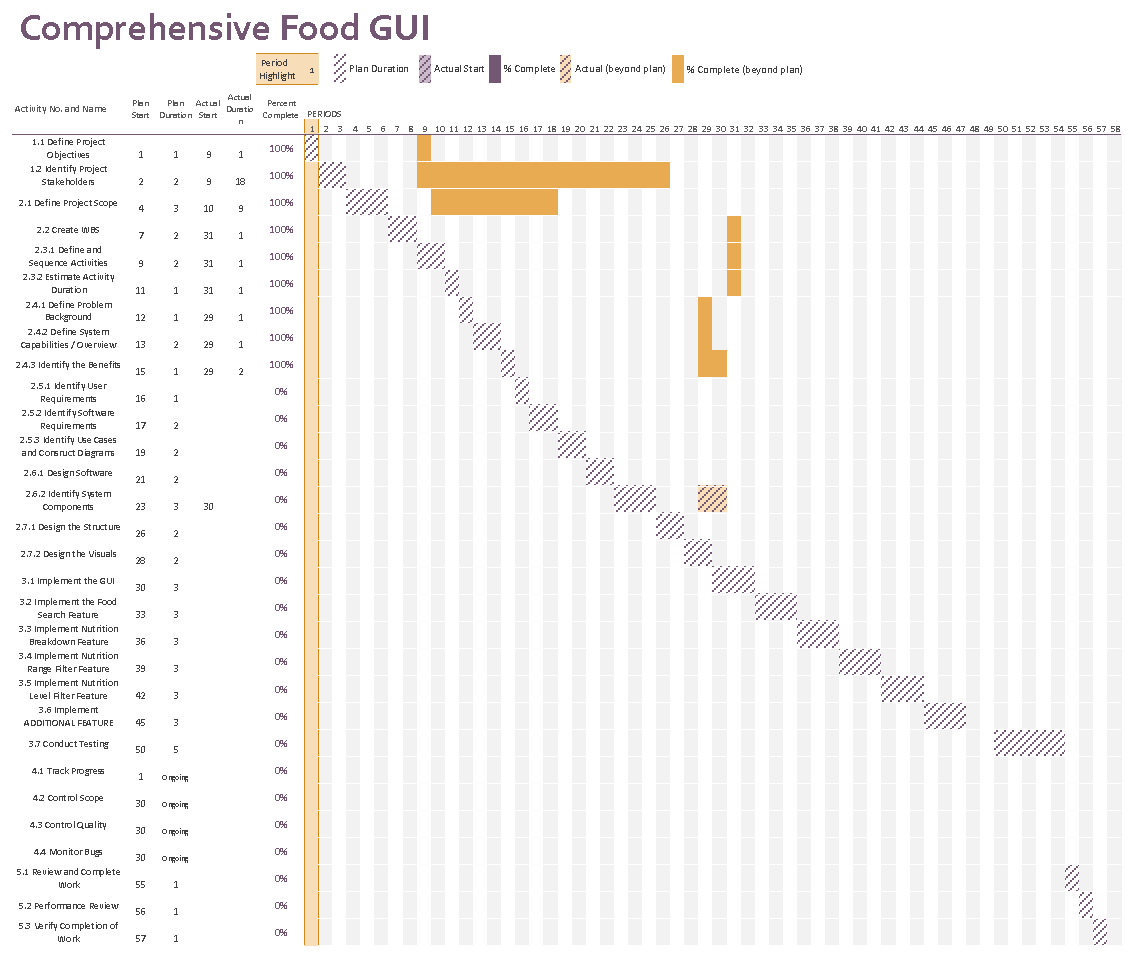
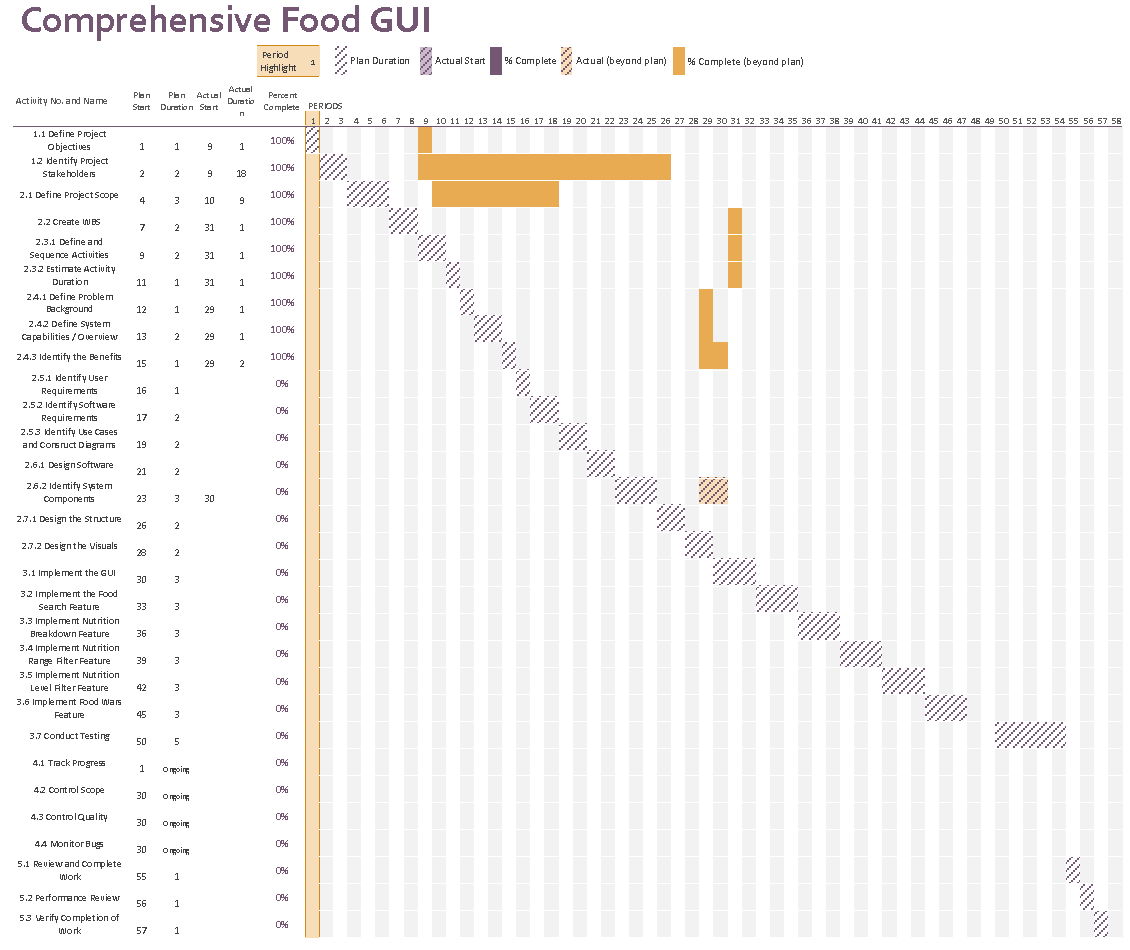
filter feature fix and new feature

diff --git a/Software Design Document.md b/Software Design Document.md
@@ -18,52 +18,52 @@
 
 <!-- TOC -->
 
-- [Software Design Document](#software-design-document)
-  - [Project Name: Comprehensive Food GUI](#project-name-comprehensive-food-gui)
-  - [Group Number: 023](#group-number-023)
-  - [Team members](#team-members)
-- [Table of Contents](#table-of-contents)
-  - [1. System Vision](#1-system-vision)
-    - [1.1 Problem Background](#11-problem-background)
-        - [Data Input](#data-input)
-        - [Data Output](#data-output)
-        - [Target Users](#target-users)
-          - [Nutritionists and Dietitians](#nutritionists-and-dietitians)
-          - [Educational Institutions](#educational-institutions)
-          - [Health Conscious Individuals](#health-conscious-individuals)
-          - [Researchers](#researchers)
-          - [Food Manufacturers](#food-manufacturers)
-    - [1.2 System capabilities/overview](#12-system-capabilitiesoverview)
-      - [System Functionality](#system-functionality)
-      - [Features and Functionalities:](#features-and-functionalities)
-        - [GUI](#gui)
-        - [Food Search](#food-search)
-        - [Nutrition Breakdown](#nutrition-breakdown)
-        - [Nutrition Range Filter](#nutrition-range-filter)
-        - [Nutrition Level Filter](#nutrition-level-filter)
-        - [Food Wars](#food-wars)
-    - [1.3 Benefit Analysis](#13-benefit-analysis)
-        - [1. Informed Dietary Choices](#1-informed-dietary-choices)
-        - [2. Efficient Nutritional Research](#2-efficient-nutritional-research)
-        - [3. Enhances Dietitians and Nutritionists](#3-enhances-dietitians-and-nutritionists)
-        - [4. Educational Resource](#4-educational-resource)
-        - [5. Marketing](#5-marketing)
-        - [6. Time and Effort Savings](#6-time-and-effort-savings)
-        - [7. ADDITIONAL FEATURE BENEFIT](#7-additional-feature-benefit)
-  - [2. Requirements](#2-requirements)
-    - [2.1 User Requirements](#21-user-requirements)
-    - [2.2 Software Requirements](#22-software-requirements)
-    - [2.3 Use Case Diagram](#23-use-case-diagram)
-    - [2.4 Use Cases](#24-use-cases)
-  - [3. Software Design and System Components](#3-software-design-and-system-components)
-    - [3.1 Software Design](#31-software-design)
-    - [3.2 System Components](#32-system-components)
-      - [3.2.1 Functions](#321-functions)
-      - [3.2.2 Data Structures / Data Sources](#322-data-structures--data-sources)
-      - [3.2.3 Detailed Design](#323-detailed-design)
-  - [4. User Interface Design](#4-user-interface-design)
-    - [4.1 Structural Design](#41-structural-design)
-    - [4.2 Visual Design](#42-visual-design)
+-  [Software Design Document](#software-design-document)
+   -  [Project Name: Comprehensive Food GUI](#project-name-comprehensive-food-gui)
+   -  [Group Number: 023](#group-number-023)
+   -  [Team members](#team-members)
+-  [Table of Contents](#table-of-contents)
+   -  [1. System Vision](#1-system-vision)
+      -  [1.1 Problem Background](#11-problem-background)
+         -  [Data Input](#data-input)
+         -  [Data Output](#data-output)
+         -  [Target Users](#target-users)
+            -  [Nutritionists and Dietitians](#nutritionists-and-dietitians)
+            -  [Educational Institutions](#educational-institutions)
+            -  [Health Conscious Individuals](#health-conscious-individuals)
+            -  [Researchers](#researchers)
+            -  [Food Manufacturers](#food-manufacturers)
+      -  [1.2 System capabilities/overview](#12-system-capabilitiesoverview)
+         -  [System Functionality](#system-functionality)
+         -  [Features and Functionalities:](#features-and-functionalities)
+            -  [GUI](#gui)
+            -  [Food Search](#food-search)
+            -  [Nutrition Breakdown](#nutrition-breakdown)
+            -  [Nutrition Range Filter](#nutrition-range-filter)
+            -  [Nutrition Level Filter](#nutrition-level-filter)
+            -  [Food Wars](#food-wars)
+      -  [1.3 Benefit Analysis](#13-benefit-analysis)
+         -  [1. Informed Dietary Choices](#1-informed-dietary-choices)
+         -  [2. Efficient Nutritional Research](#2-efficient-nutritional-research)
+         -  [3. Enhances Dietitians and Nutritionists](#3-enhances-dietitians-and-nutritionists)
+         -  [4. Educational Resource](#4-educational-resource)
+         -  [5. Marketing](#5-marketing)
+         -  [6. Time and Effort Savings](#6-time-and-effort-savings)
+         -  [7. ADDITIONAL FEATURE BENEFIT](#7-additional-feature-benefit)
+   -  [2. Requirements](#2-requirements)
+      -  [2.1 User Requirements](#21-user-requirements)
+      -  [2.2 Software Requirements](#22-software-requirements)
+      -  [2.3 Use Case Diagram](#23-use-case-diagram)
+      -  [2.4 Use Cases](#24-use-cases)
+   -  [3. Software Design and System Components](#3-software-design-and-system-components)
+      -  [3.1 Software Design](#31-software-design)
+      -  [3.2 System Components](#32-system-components)
+         -  [3.2.1 Functions](#321-functions)
+         -  [3.2.2 Data Structures / Data Sources](#322-data-structures--data-sources)
+         -  [3.2.3 Detailed Design](#323-detailed-design)
+   -  [4. User Interface Design](#4-user-interface-design)
+      -  [4.1 Structural Design](#41-structural-design)
+      -  [4.2 Visual Design](#42-visual-design)
 
 <div style="page-break-after: always;"></div>
 
@@ -87,7 +87,7 @@
 -  Users will be entering the names of foods to search the dataset.
 -  Users will be selecting specific foods to see visualisation tools on its nutritional content.
 -  Users will be inputting minimum and maximum values for a nutrition to display foods that fall within that range.
--  Users will be inputting low, mid, and high levels for various nutrients to display a list of filtered food items that fall within those ranges.
+-  Users will be inputting a low, mid, or high level for a specific nutrient to display a list of filtered food items that fall within that range.
 -  **ADDITIONAL ITEM CONTAINS INPUT**
 -  The users will be accessing the Nutritional_Food_Database.csv via their inputs above.
 
@@ -95,7 +95,7 @@
 
 -  Visualisation tools such as pie charts and bar graphs when a food item is searched or clicked from a display.
 -  A list of foods after the user inputs minimum and maximum values from the range menu
--  A list of foods after the user inputs low, mid, and high values from the filter menu.
+-  A list of foods after the user inputs a low, mid, or high value from the filter menu.
 -  **ADDITIONAL ITEM CONTAINS OUTPUT**
 
 ##### Target Users
@@ -161,20 +161,20 @@
 
 ##### Nutrition Level Filter
 
--  Allows users to filter foods by their nutritional content levels: low, mid, and high. The filter includes: fat, protein, carbohydrates, sugar, and nutritional density.
+-  Allows users to filter foods by the size of a nutrient content level: low, mid, and high. The filter includes: fat, protein, carbohydrates, sugar, and nutritional density.
    -  Functionality:
       -  Low: Less than 33% of the highest value
       -  Mid: Between 33% and 66% of the highest value
       -  High: Greater than 66% of the highest value
-      -  A filter menu for choosing the level of each nutrient
-      -  Fields below each nutrient
+      -  A filter menu for choosing the nutrient
+      -  A field for choosing low, mid, or high
       -  A display afterwards that will contain the list of foods
 
 ##### Food Wars
-- **Description** 
-  - Functionality:
-    - **Functions**
 
+-  **Description**
+   -  Functionality:
+      -  **Functions**
 
 ### 1.3 Benefit Analysis
 
@@ -191,7 +191,7 @@
 ##### 3. Enhances Dietitians and Nutritionists
 
 -  Benefit: Dietitians are able to give more individualised, precise, and accurate recommendations.
--  Example: If a client is required to cut back on fats, but needs to maintain high levels of nutritional density and protein, they can utilise the nutrition level filter. By navigating to the filter menu and choosing low for fat, high for protein, and high for nutritional density, while leaving the rest blank. The dietitian can use the displayed list to provide customised food recommendations.
+-  Example: If a client is required to cut back on fats, the dietician can utilise the nutrition level filter. By navigating to the filter menu and choosing low for fat. They can use the displayed list to provide customised food recommendations. Or if they want more precise recommendations they can use the range feature for specific amounts.
 
 ##### 4. Educational Resource
 
@@ -269,8 +269,8 @@ List all key functions within the software. For each function, provide:
     - <h6 style="display: inline;"> Nutrition Breakdown Function: </h6> breakdown the nutritional information for that specific food in the form of pie and bar graphs
     - <h6 style="display: inline;"> Nutrition Range Filter Function:  </h6> allow the user to select one nutrition and input minimum & maximum values, and the tools will display a list of foods that fall into those ranges 
     - <h6 style="display: inline;"> Nutrition Level Filter Function: </h6> allow the user to select ranges of low, medium and high for nutritional information such as fats, protein carbohydrates, sugar and nutritional density to compare the foods that fall within the ranges visually 
-    - <h6 style="display: inline;"> Food Wars Function: </h6> allow the user to select 5 chosen foods and compare them aginst each other visually with pie charts or bar graphs based on a one selected nutritonal information 
-  
+    - <h6 style="display: inline;"> Food Wars Function: </h6> allow the user to select 5 chosen foods and compare them aginst each other visually with pie charts or bar graphs based on a one selected nutritonal information
+
 -  <h5 style="display: inline;"> Input Parameters: </h5>
     
     - <h6 style="display: inline;"> Food Search Function: </h6> The input type would be string and be used to input the foods the user is wanting to look up such as "pear"
@@ -280,21 +280,21 @@ List all key functions within the software. For each function, provide:
     - <h6 style="display: inline;"> Food Wars Function: </h6> The input would be a combination of a set 5 strings that allow the user to select 5 foods such as "cheese sticks" "pear" "apple" "hummus" "fried rice" then another string for the nutrional information such as "sugar" and finally a boolean which would allow the user to select either pie or bar graph such as "Graph: 'pie' "
 
 -  <h5 style="display: inline;"> Return Value: </h5> Describe what the function returns.
-   
-    - <h6 style="display: inline;"> Food Search Function: </h6> Would display all the information returned for the selected food such as in a dictionary for the user to view. 
-    - <h6 style="display: inline;"> Nutrition Breakdown Function: </h6> Would display all the information for the selected food's nurtitional information as a bar or pie graph.
-    - <h6 style="display: inline;"> Nutrition Range Filter Function: </h6> Would display all the foods between the selected minimum and maximum of the selected nutrition as a dictionary going from the food closest to the maximum with its value to the food closest to the minimum.
-    - <h6 style="display: inline;"> Nutrition Level Filter Function: </h6> Have the foods that fall within the chosen parameters of low, medium or high for the selected nutritional value as a dictionary which will display the foods from the highest nutritional values to the lowest with the names of the foods
-    - <h6 style="display: inline;"> Food Wars Function: </h6> It would have the function return the 5 selected foods compared against the nutritional value selected in the form of a bar or pie chart
+
+   -  <h6 style="display: inline;"> Food Search Function: </h6> Would display all the information returned for the selected food such as in a dictionary for the user to view.
+   -  <h6 style="display: inline;"> Nutrition Breakdown Function: </h6> Would display all the information for the selected food's nurtitional information as a bar or pie graph.
+   -  <h6 style="display: inline;"> Nutrition Range Filter Function: </h6> Would display all the foods between the selected minimum and maximum of the selected nutrition as a dictionary going from the food closest to the maximum with its value to the food closest to the minimum.
+   -  <h6 style="display: inline;"> Nutrition Level Filter Function: </h6> Have the foods that fall within the chosen parameters of low, medium or high for the selected nutritional value as a dictionary which will display the foods from the highest nutritional values to the lowest with the names of the foods
+   -  <h6 style="display: inline;"> Food Wars Function: </h6> It would have the function return the 5 selected foods compared against the nutritional value selected in the form of a bar or pie chart
 
 -  <h5 style="display: inline;"> Side Effects: </h5> Note any side effects, such as changes to global variables or data passed by reference.
-  
-    - **I Have No Idea For This SEction Delete IF Nothing Put Down**
-    - <h6 style="display: inline;"> Food Search Function: </h6>
-    - <h6 style="display: inline;"> Nutrition Breakdown Function: </h6> 
-    - <h6 style="display: inline;"> Nutrition Range Filter Function:  </h6>
-    - <h6 style="display: inline;"> Nutrition Level Filter Function: </h6>
-    - <h6 style="display: inline;"> Food Wars Function: </h6>
+
+   -  **I Have No Idea For This SEction Delete IF Nothing Put Down**
+   -  <h6 style="display: inline;"> Food Search Function: </h6>
+   -  <h6 style="display: inline;"> Nutrition Breakdown Function: </h6>
+   -  <h6 style="display: inline;"> Nutrition Range Filter Function:  </h6>
+   -  <h6 style="display: inline;"> Nutrition Level Filter Function: </h6>
+   -  <h6 style="display: inline;"> Food Wars Function: </h6>
 
 #### 3.2.2 Data Structures / Data Sources
 

diff --git a/Project Plan.md b/Project Plan.md
@@ -47,7 +47,7 @@ Please Describe what you have accomplished in this group project.
 -  Provide a tool that allows users to filter the nutritional data according to particular ranges and levels of nutrients
 -  Provide a graphical user interface to allow for the data to be interacted with.
 -  Allow for a foods nutritional value to be shown visually, with tools such as pie charts and bar graphs.
--  Allow for a visual comparison between 5 chosen foods with pie charts and bar graphs based on a chosen shared nutritonal value
+-  Allow for a visual comparison between 5 chosen foods with pie charts and bar graphs based on a chosen shared nutritional value
 
 ### 1.2 Project Stakeholders
 
@@ -138,18 +138,18 @@ It includes:
 -  Low: Less than 33% of the highest value
 -  Mid: Between 33% and 66% of the highest value
 -  High: Greater than 66% of the highest value
--  A filter menu for choosing the level of each nutrient
--  Fields below each nutrient
+-  A filter menu for choosing the nutrient
+-  A field for choosing low, mid, or high
 -  A display afterwards that will contain the list of foods
 
-##### Food Wars 
+##### Food Wars
 
-Allow users to compare up to 5 different foods against a chosen nutritient and allow them to visually compare the differents foods in a bar and pir graph
+Allow users to compare up to 5 different foods against a chosen nutrient and allow them to visually compare the different foods in a bar and pie graph.
 It Includes:
 
-- A button to access the feature
-- Search bars for the foods and for the nutrient
-- Pie charts and bar graphs
+-  A button to access the feature
+-  Search bars for the foods and for the nutrient
+-  Pie charts and bar graphs
 
 ##### Documentation
 
@@ -224,7 +224,7 @@ It includes:
 
 ## 2. Work Breakdown Structure
 
-![WBS](/WBS.png)
+![WBS](./WBS.png)
 
 ## 3. Activity Definition Estimation
 
@@ -250,8 +250,8 @@ It includes:
 | 3.2          | Implement Food Search Feature             | Code all the functions that enable the user to search for foods by name. Including the event that calls the nutrition breakdown feature.                                                                 | 3               | ???                      |
 | 3.3          | Implement Nutrition Breakdown Feature     | Code all the functions that enable the user to see pie charts and bar graphs that display the nutritional breakdown of the selected food.                                                                | 3               | ???                      |
 | 3.4          | Implement Nutrition Range Filter Feature  | Code all the functions that enable the user to see a list of food filtered by a minimum and maximum range of a specific nutrient.                                                                        | 3               | ???                      |
-| 3.5          | Implement Nutrition Level Filter Feature  | Code all the functions that enable the user to see a list of foods filtered by low, mid, high levels of multiple nutrients.                                                                              | 3               | ???                      |
-| 3.6          | Implement **ADDITIONAL FEATURE**          | Code all functions for additional feature.                                                                                                                                                               | 3               | ???                      |
+| 3.5          | Implement Nutrition Level Filter Feature  | Code all the functions that enable the user to see a list of foods filtered by low, mid, or high levels of a selected nutrient.                                                                          | 3               | ???                      |
+| 3.6          | Implement Food Wars Feature               | Code all the functions that allow the user to compare up to 5 different foods against a chosen nutrient and the charts to compare the different foods.                                                   | 3               | ???                      |
 | 3.7          | Conduct Testing                           | Perform testing on the code to ensure there are no bugs and that the code meets the scope.                                                                                                               | 5               | ???                      |
 | 4.1          | Track Progress                            | Monitor the progress of the project to ensure it keeps pace with timelines and milestones.                                                                                                               | Ongoing         | ???                      |
 | 4.2          | Control Scope                             | Ensure the progress stays within the scope by managing changes made.                                                                                                                                     | Ongoing         | ???                      |
